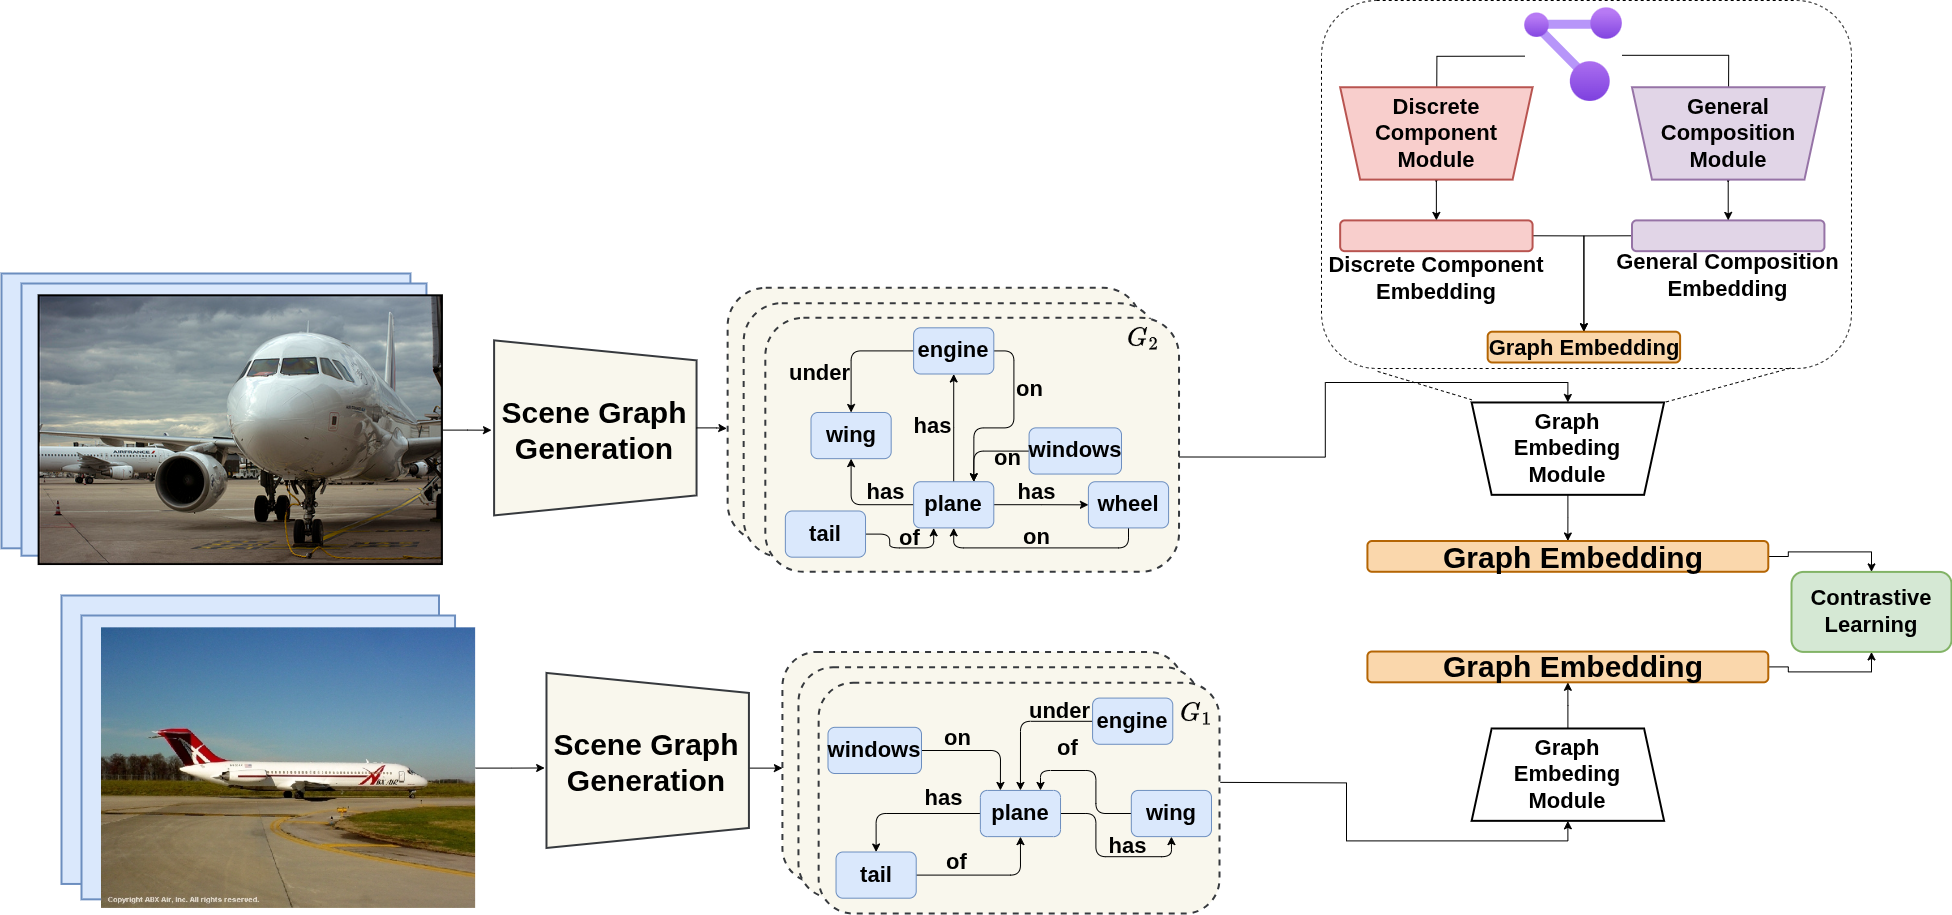
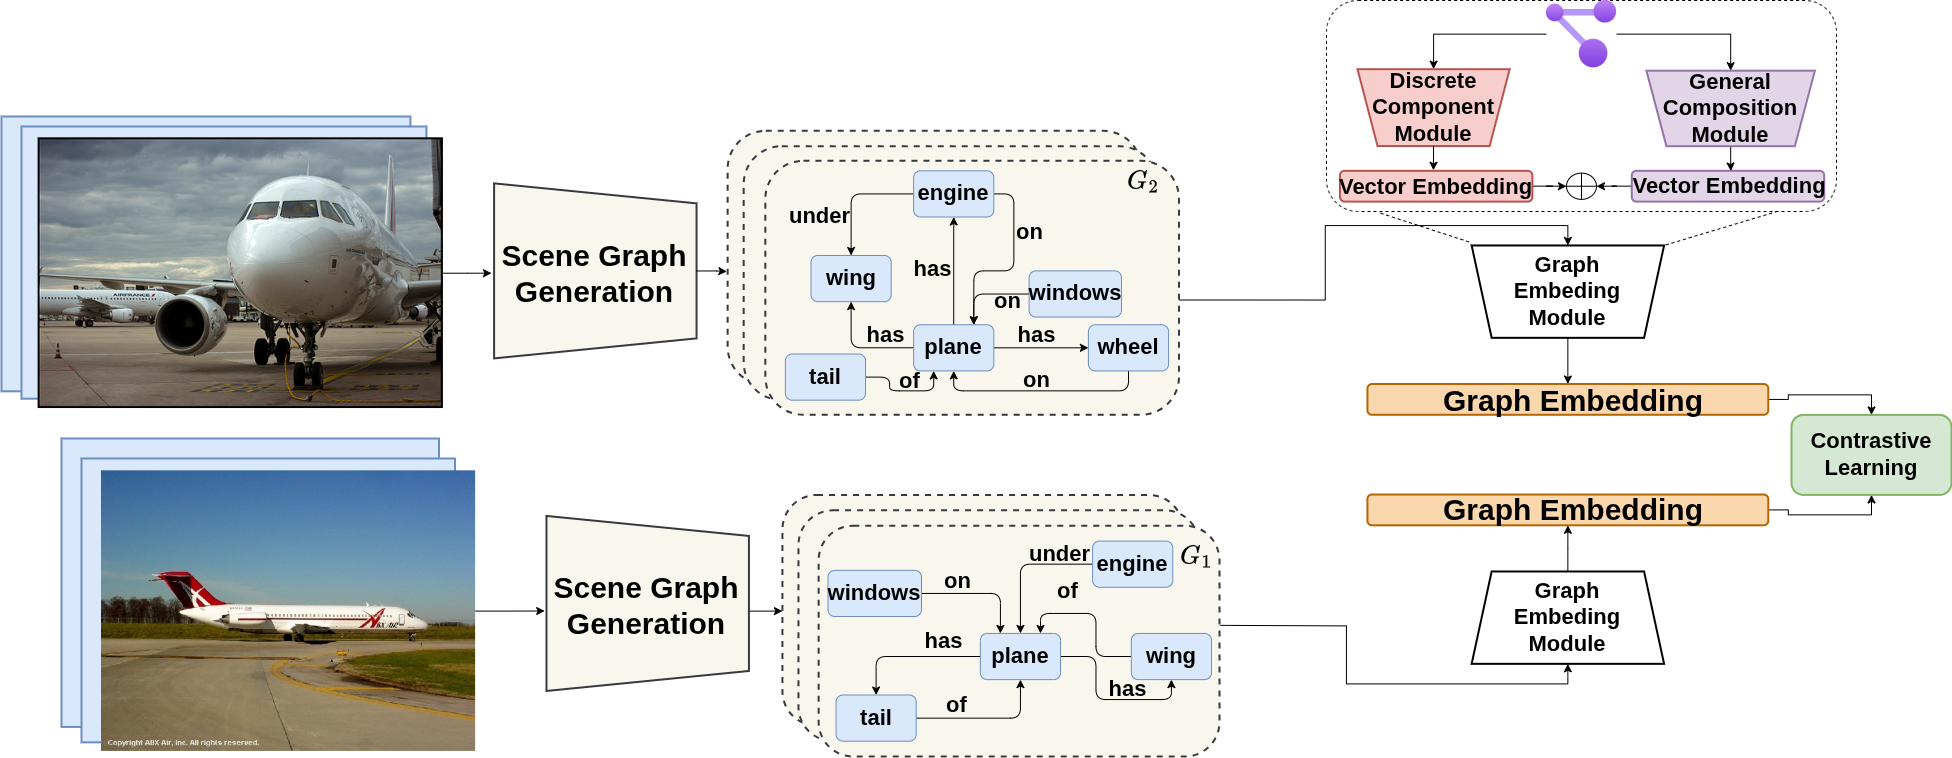
commit

diff --git a/Controller/IRESGController/train_engine.py b/Controller/IRESGController/train_engine.py
@@ -1,8 +1,10 @@
 import torch
 from typing import Iterable
 import time
-import datetime
+import numpy as np
 from Controller.IRESGController.model.model import ModelCross
+from tqdm import tqdm
+import faiss
 
 def train_engine(model: ModelCross, criterion: torch.nn.Module,
                 data_loader: Iterable, optimizer: torch.optim.Optimizer,
@@ -71,7 +73,7 @@ def train_engine(model: ModelCross, criterion: torch.nn.Module,
     return avg_loss
 
 def valid_engine(model: ModelCross, criterion: torch.nn.Module,
-                    data_loader: Iterable,
+                    data_loader: Iterable, data_db: Iterable, 
                     device: torch.device, epoch: int, logger):
     
     model.eval()
@@ -99,17 +101,84 @@ def valid_engine(model: ModelCross, criterion: torch.nn.Module,
             total_cosine_sim += losses['avg_cosine'].item()
 
             break
+    
+        avg_loss = total_loss / num_batches if num_batches > 0 else 0
+        avg_info_nce = total_info_nce / num_batches if num_batches > 0 else 0
+        avg_cosine_sim = total_cosine_sim / num_batches if num_batches > 0 else 0
+        logger.info(
+            f"Epoch {epoch} - Validation Loss: {avg_loss} "
+            f"- info_nce: {avg_info_nce} "
+            f"- cosine_sim: {avg_cosine_sim}"
+        )
 
-    avg_loss = total_loss / num_batches if num_batches > 0 else 0
-    avg_info_nce = total_info_nce / num_batches if num_batches > 0 else 0
-    avg_cosine_sim = total_cosine_sim / num_batches if num_batches > 0 else 0
-    logger.info(
-        f"Epoch {epoch} - Validation Loss: {avg_loss} "
-        f"- info_nce: {avg_info_nce} "
-        f"- cosine_sim: {avg_cosine_sim}"
-    )
+        #Compute mean Recall
+        compute_recall(model, data_db, device)
+        
+
     return avg_loss
 
-def compute_recall(model, val_que, index, k=[1,5,10]):
+def faiss_retrieval_controller(z_que, set_z_rev, images_id_rev):
+    set_z_rev = np.stack([
+        t.detach().cpu().numpy() for t in set_z_rev
+    ]).astype('float32')
+    index = faiss.IndexFlatIP(set_z_rev.shape[1])  # Dùng Euclidean distance
+    index.add(set_z_rev)
+    D, I = index.search(z_que, k=50)
+    selected_images = [images_id_rev[i] for i in I[0]]
+    return selected_images
+
+def compute_recall(model: ModelCross, data_db: Iterable, device):
+
+    '''
+    # image_ids_a, images_id_b: list of image_name que and rev
+    # triplets_que, triplets_rev: list of triplet que and rev
+    '''
+
+    image_ids_a, images_ids_b = [], []
+    triplets_que, triplets_rev = [], []
+    imgs_a, imgs_b = [], []
+
+    for img_a, img_b, trip_que, trip_rev, image_id_a, image_id_b in tqdm(data_db):
+        image_ids_a.append(image_id_a[0]), images_ids_b.append(image_id_b[0])
+
+        img_a = img_a[0].to(device)
+        img_b = img_b[0].to(device)
+        trip_que = [{k: v.to(device) for k, v in t.items()} for t in trip_que]
+        trip_rev = [{k: v.to(device) for k, v in t.items()} for t in trip_rev]
+
+        z_i, z_i_msk, _ = model.models.vision_encoder(img_a)
+        go, _ = model.models.graph_encoder_o(trip_que)
+        ge, _ = model.models.graph_encoder_e(trip_rev)
+
+        z_o, _ = model.models.attn_graph_o(query=go,
+            key=z_i,
+            value=z_i,
+            key_padding_mask=z_i_msk)
+        
+        z_e, _ = model.models.attn_graph_e(query=ge,
+            key=z_i,
+            value=z_i,
+            key_padding_mask=z_i_msk)
+        
+        imgs_a.append(z_i[:,0])
+        triplets_que.append(z_o[:,0][0])
+        triplets_rev.append(z_e[:,0][0])
+
+    print(f"Total list Que: {len(triplets_que)}\nSize item: {triplets_que[0].size()}")
+    print(f"Total list Rev: {len(triplets_rev)}\nSize item: {triplets_rev[0].size()}")
+    print(f"Total length image que: {len(image_ids_a)}\nTotal length image rev: {len(images_ids_b)}")
+    x = faiss_retrieval_controller(triplets_que[0].unsqueeze(0), triplets_rev, images_ids_b)
+
+    print(x)
+
+
+        # print(z_i.size())
+        # print(go.size())
+        # print(ge.size())
+
+        # print(z_o.size())
+        # print(z_e.size())
+
+        # break
 
     return 

diff --git a/Controller/IRESGController/datasets/create_db.py b/Controller/IRESGController/datasets/create_db.py
@@ -6,7 +6,8 @@ from typing import List, Tuple, Dict
 from PIL import Image
 import os
 from util.misc import nested_tensor_from_tensor_list
-import Controller.IRESGController.datasets.transform as T
+import torchvision.transforms as T
+from tqdm import tqdm
 
 class CreateDB(Dataset):
     def __init__(self, image_folder, transforms, ann_file: str, tokenizer: str, max_length: int = 10):
@@ -39,8 +40,8 @@ class CreateDB(Dataset):
         img_b = Image.open(os.path.join(self.img_folder, image_id_b)).convert('RGB')
 
         if self._transforms is not None:
-            img_a, _ = self._transforms(img_a, target = None)
-            img_b, _ = self._transforms(img_b, target = None)
+            img_a = self._transforms(img_a).unsqueeze(0)
+            img_b = self._transforms(img_b).unsqueeze(0)
 
         triplets_que = self.encode_triplets(self.data[idx]['qe']['trip'])
         triplets_rev = self.encode_triplets(self.data[idx]['rev']['trip'])
@@ -51,15 +52,13 @@ class CreateDB(Dataset):
     
 def make_coco_transforms():
 
-    normalize = T.Compose([
+    transform = T.Compose([
+        T.Resize(512),
         T.ToTensor(),
         T.Normalize([0.485, 0.456, 0.406], [0.229, 0.224, 0.225])
     ])
 
-    return T.Compose([
-        T.RandomResize([512]),
-        normalize,
-    ])
+    return transform
 
 def pad_or_truncate_tensor(item: Dict[str, torch.Tensor], max_i: int = 10) -> Dict[str, torch.Tensor]:
     for key in ['trip_ids', 'trip_mask']:
@@ -95,13 +94,13 @@ def create_db(image_folder, ann_file, tokenizer, max_length):
                         )
     return dataset
 
-def build_db(data_loader):
-    image_ids_a, images_id_b = [], []
-    triplets_que, triplets_rev = [], []
-    imgs_a, imgs_b = [], []
-    for img_a, img_b, trip_que, trip_rev, image_id_a, image_id_b in data_loader:
-        image_ids_a.append(image_id_a[0]), images_id_b.append(image_id_b[0])
-        triplets_que.append(trip_que[0]), triplets_rev.append(trip_rev[0])
-        imgs_a.append(img_a[0]), imgs_b.append(img_b[0])
+# def build_db(data_loader, model):
+#     image_ids_a, images_id_b = [], []
+#     triplets_que, triplets_rev = [], []
+#     imgs_a, imgs_b = [], []
+#     for img_a, img_b, trip_que, trip_rev, image_id_a, image_id_b in tqdm(data_loader):
+#         image_ids_a.append(image_id_a[0]), images_id_b.append(image_id_b[0])
+#         # triplets_que.append(trip_que[0]), triplets_rev.append(trip_rev[0])
+#         # imgs_a.append(img_a[0]), imgs_b.append(img_b[0])
 
-    print("================= DONE =============")
+#     print("================= DONE =============")

diff --git a/Controller/IRESGController/train.py b/Controller/IRESGController/train.py
@@ -1,5 +1,5 @@
 from Controller.IRESGController.datasets.data import build_data, collate_fn_dual_image
-from Controller.IRESGController.datasets.create_db import create_db, collate_fn_dual_image_db, build_db
+from Controller.IRESGController.datasets.create_db import create_db, collate_fn_dual_image_db
 from Controller.IRESGController.model.model import build, ModelCross
 from Controller.IRESGController.util.misc import setup_logger
 from Controller.IRESGController.train_engine import *
@@ -92,8 +92,6 @@ if __name__ == "__main__":
                         collate_fn=collate_fn_dual_image_db,
                         num_workers=num_workers,
                         pin_memory=True)
-    
-    # db = build_db(data_db)
 
     for name, dataset, loader in [
         ("Training", dataset_train, data_train),
@@ -133,7 +131,7 @@ if __name__ == "__main__":
         losses_train = train_engine(model, criterion, data_train, optimizer, device, epoch, logger, log_interval)
         
         save_checkpoint(model, optimizer, epoch, losses_train, save_ckpt)
-        losses_valid = valid_engine(model, criterion, data_val, device, epoch, logger)
+        losses_valid = valid_engine(model, criterion, data_val, data_db, device, epoch, logger)
 
         lr_scheduler.step(losses_valid)
 

diff --git a/Controller/IRESGController/model/model.py b/Controller/IRESGController/model/model.py
@@ -43,6 +43,9 @@ class Criterion(nn.Module):
 
     def forward(self, z_i, z_o, z_e, z_be):
         info_nce = self.info_nce_loss(z_o, z_e)
+        info_nce_oeB = self.info_nce_loss(z_o, z_be)
+        info_nce_eeB = self.info_nce_loss(z_e, z_be)
+
         cosine_sim_o = self.cosine_sim_loss(z_i, z_o)
         cosine_sim_e = self.cosine_sim_loss(z_i, z_e)
         cosine_sim_be = self.cosine_sim_loss(z_be, z_e)

diff --git a/Controller/IRESGController/model/models.py b/Controller/IRESGController/model/models.py
@@ -54,8 +54,6 @@ class CEAtt(nn.Module):
 
         return  z_i[:,0], z_o[:,0], z_e[:,0], z_be[:,0]
     
-
-
 def build_model(hidden_dim,lr_backbone,masks, backbone, dilation, 
                 nhead, nlayer, d_ffn, dropout, random_erasing_prob, activation, pre_train):
 
